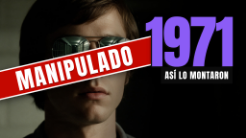
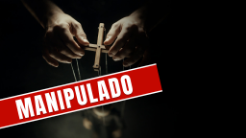
Reemplaza la miniatura del video 1: el titiritero
El guardia con gafas de aviador no convenció al usuario. Se probaron
3 conceptos nuevos con imagen real (cinta desenrollada, titiritero,
máscara partida) y se comparó a tamaño de feed antes de elegir:
la máscara se descartó por confundirse con una calavera reducida,
y se optó por las manos sosteniendo los hilos de una marioneta -
se lee con claridad en miniatura y resume la idea central del canal,
no solo la de este video. También se genera el audio narrado
completo (audio.mp3, gitignored) con la voz SANDMOR, elegida por su
tono cálido, cinematográfico y de ritmo natural para narración larga.

Claude-Session: https://claude.ai/code/session_018tfUmk1VP2jnSbyQRbU4Gb

diff --git a/canal-cerebro-traidor/producciones/01-stanford/miniatura/README.md b/canal-cerebro-traidor/producciones/01-stanford/miniatura/README.md
@@ -1,36 +1,56 @@
 # Miniatura — video 1 de Cerebro Traidor
 
-## Concepto
+## Historial
 
-Guardia del experimento de Stanford, gafas de aviador reflectantes que le
-tapan por completo los ojos (mismo objeto que millones de personas
-reconocen aunque no sepan el nombre del experimento), con el pasillo de
-celdas reflejado en los cristales. No es un retrato de Philip Zimbardo ni
-de ningún guardia real: es una reconstrucción genérica, sin nombre ni
-rasgos de una persona identificable, mismo criterio de precaución que
-Historia Incómoda con Frank Tower.
+**Primer intento (descartado)**: guardia genérico con gafas de aviador
+reflectantes. El usuario no quedó convencido ("no me convence esa
+miniatura, busca otro estilo"). Se generaron 3 conceptos nuevos,
+completamente distintos entre sí, para comparar con datos reales en vez
+de adivinar de nuevo:
 
-Sello rojo diagonal "MANIPULADO" cruzando la cara — forma y contraste de
-color, no depende de detalle fino, por eso sobrevive la reducción a
-tamaño de feed. A la derecha, en el acento violeta propio de Cerebro
-Traidor (distinto del amarillo/rojo de Historia Incómoda para que nunca
-se confundan en la pantalla de recomendados), el año "1971" con la
-leyenda "ASÍ LO MONTARON".
+- **A — la cinta**: reproductor de carrete abierto con la cinta
+  desenrollándose, conectando directo con el giro real del video (las
+  grabaciones desclasificadas).
+- **B — el titiritero**: manos sosteniendo la cruceta y los hilos de una
+  marioneta genérica, en penumbra.
+- **C — la máscara partida**: máscara de teatro clásica partida por la
+  mitad. Descartada: a tamaño de feed (246px) la forma se confunde con
+  una calavera o una piedra, pierde el significado de "máscara".
 
-Ningún texto de la miniatura repite el título elegido ("El experimento de
-psicología más citado fue manipulado"): la miniatura vende el "cómo"
-visual (el guardia, el año, el sello), el título aporta el "qué" (que es
-el experimento más citado).
+## Concepto elegido: B — El titiritero
+
+Manos sosteniendo los hilos de una marioneta genérica (sin rasgos
+identificables) que cuelga borrosa en la penumbra debajo. Elegido sobre
+A y C porque:
+
+- Se lee perfecto incluso reducido a tamaño de feed: la cruceta y las
+  manos son inconfundibles.
+- No ilustra solo este video: resume la idea central de **todo el
+  canal** ("alguien mueve los hilos sin que la marioneta lo sepa"),
+  puede convertirse en un recurso visual recurrente de la marca.
+- Ningún rostro ni persona real identificable — solo manos genéricas.
+
+Sello rojo diagonal "MANIPULADO" posicionado sobre las cuerdas, dejando
+visibles la cruceta, las manos y la silueta borrosa de la marioneta
+asomando debajo del sello — no tapa el elemento más expresivo de la
+imagen.
+
+Se decidió **no** añadir el número/año lateral (como en el intento
+anterior): la composición ya está cargada visualmente en el centro-
+izquierda, y un bloque de texto adicional a la derecha competiría con
+la imagen en vez de sumar. Aquí el título ("El experimento de psicología
+más citado fue manipulado") ya aporta el dato concreto (el "qué"); la
+miniatura aporta solo la emoción/metáfora (el "cómo se siente").
 
 ## Selección de la imagen base
 
-Se generaron 4 variantes con el mismo prompt (bytedance-seedream-5-pro,
-818 créditos cada una, 3.272 créditos / ~0,59 USD el lote de 4). Se eligió
-la variante con la sombra más marcada y el negativo más oscuro a la
-derecha (mejor contraste para el texto), guardada como `base.jpg`.
+Se generó 1 imagen por concepto (3 en total, 818 créditos cada una,
+~0,45 USD por variante) en vez de 4 variantes por concepto, ya que el
+objetivo era comparar direcciones distintas, no elegir entre varias
+tomas de la misma idea.
 
 ## Verificación
 
-`test-feed.png` — prueba obligatoria a 246px (tamaño real de feed): tanto
-"MANIPULADO" como "1971" se leen con claridad instantánea. Miniatura
-aprobada.
+`test-feed.png` — prueba obligatoria a 246px: "MANIPULADO" se lee con
+claridad instantánea, y la silueta de manos + cruceta se reconoce sin
+esfuerzo. Miniatura aprobada.
